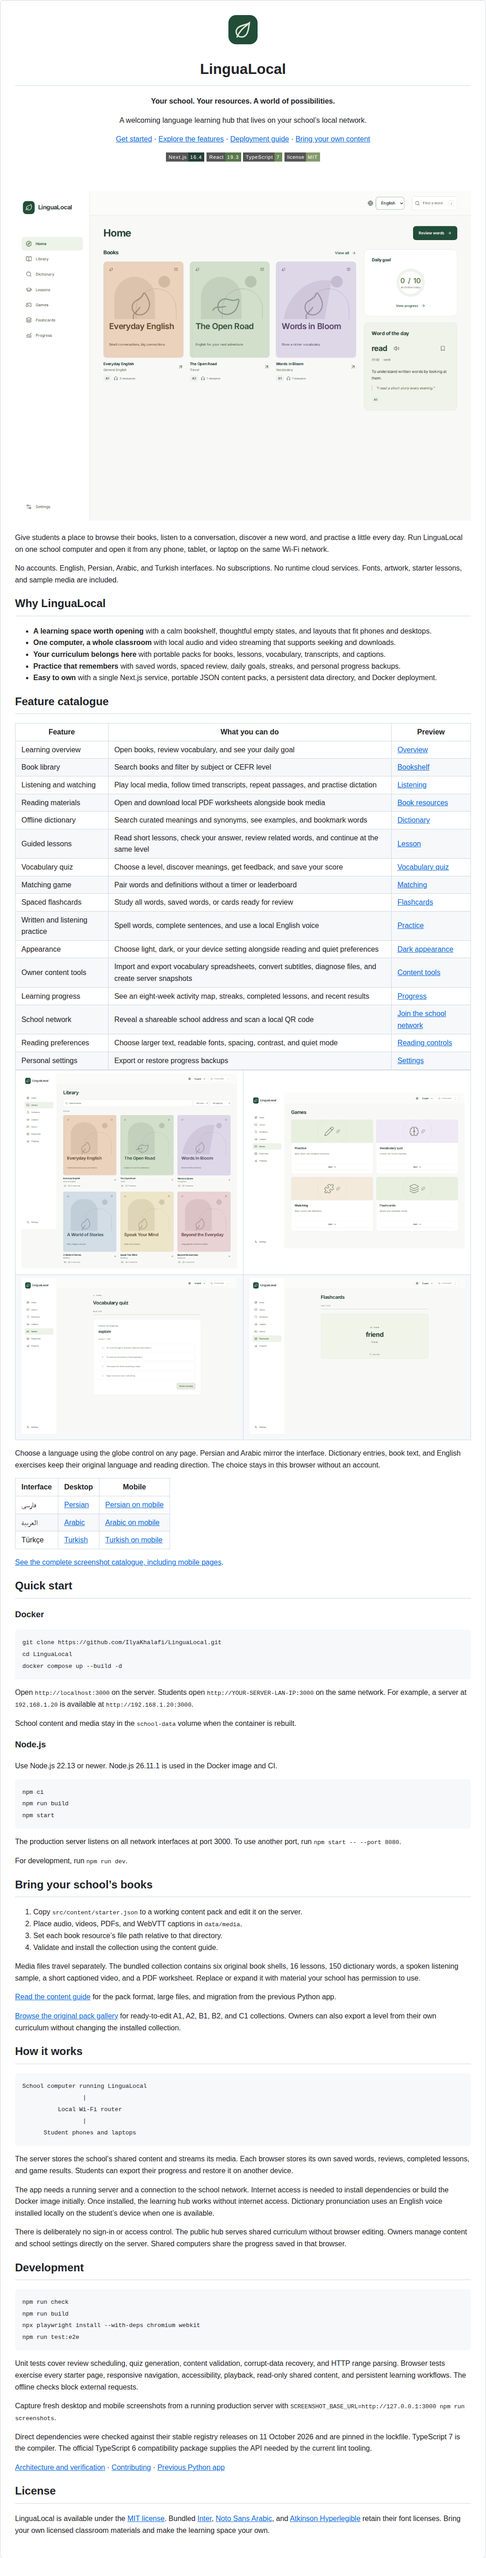
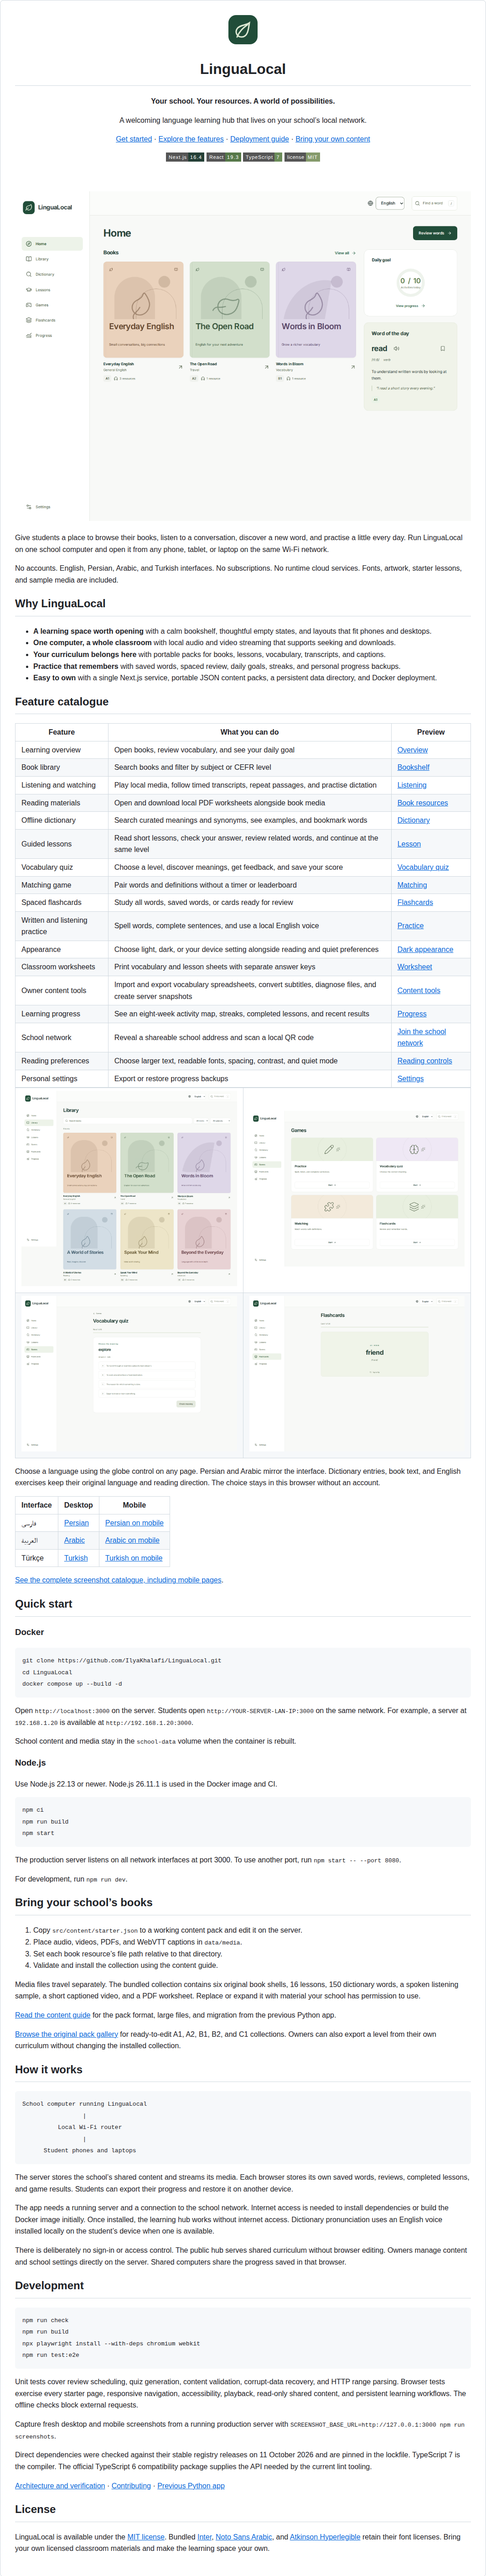
Generate printable worksheets and answer keys

diff --git a/src/lib/worksheets.ts b/src/lib/worksheets.ts
@@ -1,0 +1,121 @@
+import { distinctGameWords } from "./learning";
+import type { ContentPack, Word } from "./schema";
+
+function escape(text: string): string {
+  return text.replace(
+    /[&<>"']/g,
+    (character) =>
+      ({
+        "&": "&amp;",
+        "<": "&lt;",
+        ">": "&gt;",
+        '"': "&quot;",
+        "'": "&#39;",
+      })[character]!,
+  );
+}
+
+const styles = `
+*{box-sizing:border-box}body{margin:0;padding:32px 16px;background:#f5f7f3;color:#233c30;font:16px/1.6 system-ui,sans-serif}
+main{max-width:820px;margin:auto}h1,h2,h3{line-height:1.25}h1{font-size:28px;margin:0 0 12px}h2{font-size:21px}h3{font-size:17px}
+p{margin:12px 0}.sheet{background:white;border:1px solid #dfe5da;border-radius:16px;padding:40px;margin:24px 0;overflow-wrap:anywhere}
+.meta{color:#476a51;font-size:13px;font-weight:600;letter-spacing:.04em;margin:0 0 12px}.identity{display:flex;gap:40px;flex-wrap:wrap;margin:28px 0;font-size:14px}
+.bank{display:flex;gap:10px 18px;flex-wrap:wrap;background:#edf3e6;padding:16px 20px;border-radius:10px;list-style:none;margin:20px 0 28px}
+.questions{padding-inline-start:24px}.questions>li{padding:12px 0 18px;break-inside:avoid}.answer-line{display:block;border-bottom:1px solid #9da99b;width:70%;height:30px}
+.options{list-style-type:upper-alpha;margin:16px 0;padding-inline-start:28px}.options li{padding:5px 0}.reading{white-space:pre-wrap}.key,.exercise{break-inside:avoid}.key{padding:12px 0;border-bottom:1px solid #e4e8e1}
+a{color:#28563c;text-underline-offset:4px}nav{display:flex;gap:16px;flex-wrap:wrap}button{font:inherit;background:#214c39;color:white;border:0;border-radius:8px;padding:10px 18px;cursor:pointer}a:focus-visible,button:focus-visible{outline:3px solid #597c65;outline-offset:4px}
+@media(max-width:500px){body{padding:16px 12px}.sheet{padding:24px 20px}h1{font-size:24px}.identity{gap:16px}.answer-line{width:100%}}
+@page{size:A4;margin:18mm}@media print{body{padding:0;background:white;font-size:12pt}.sheet{padding:0;border:0;border-radius:0;margin:0;break-before:page}.sheet:first-of-type{break-before:auto}nav,.no-print{display:none}.bank{background:#f0f3ec;print-color-adjust:exact}h1,h2,h3{break-after:avoid}main{max-width:none}.key{border-color:#bbb}}
+`;
+
+function document(title: string, body: string, navigation = true): string {
+  const controls = navigation
+    ? '<nav class="no-print" aria-label="Worksheet navigation"><a href="index.html">All worksheets</a><button onclick="window.print()">Print</button></nav>'
+    : "";
+  return `<!doctype html><html lang="en"><head><meta charset="utf-8"><meta name="viewport" content="width=device-width,initial-scale=1"><title>${escape(title)}</title><style>${styles}</style></head><body><main>${controls}${body}</main></body></html>`;
+}
+
+function vocabularyGroups(words: Word[]): Word[][] {
+  const groups: Word[][] = [];
+  let group: Word[] = [];
+  let size = 0;
+  for (const word of words) {
+    const length = word.word.length + word.definition.length + 60;
+    if (group.length && (group.length === 8 || size + length > 1800)) {
+      groups.push(group);
+      group = [];
+      size = 0;
+    }
+    group.push(word);
+    size += length;
+  }
+  if (group.length) groups.push(group);
+  return groups;
+}
+
+export function createWorksheets(content: ContentPack, level?: Word["level"]) {
+  const selectedWords = content.words.filter(
+    (word) => !level || word.level === level,
+  );
+  const words = distinctGameWords(selectedWords);
+  const lessons = content.lessons.filter(
+    (lesson) => !level || lesson.level === level,
+  );
+  if (!words.length && !lessons.length)
+    throw new Error("No material matches this selection.");
+  const label = level ?? "All levels";
+  const groups = vocabularyGroups(words);
+  const skipped = selectedWords.length - words.length;
+  const files: { name: string; title: string; html: string }[] = [];
+  const key: string[] = [];
+  if (groups.length) {
+    const sheets = groups.map((group, index) => {
+      const bank = [...group].sort((left, right) =>
+        left.word.localeCompare(right.word, "en"),
+      );
+      key.push(
+        `<section class="key"><h2>Vocabulary ${index + 1}</h2><ol>${group.map((word) => `<li data-word-id="${escape(word.id)}">${escape(word.word)}</li>`).join("")}</ol></section>`,
+      );
+      return `<section class="sheet"><p class="meta">${escape(label)} · Worksheet ${index + 1}</p><h1>Find the right word</h1><p>Match each meaning to a word from the box.</p><div class="identity"><span>Name ____________________</span><span>Date ______________</span></div><ul class="bank" aria-label="Word bank">${bank.map((word) => `<li>${escape(word.word)}</li>`).join("")}</ul><ol class="questions">${group.map((word) => `<li data-word-id="${escape(word.id)}">${escape(word.definition)}<span class="answer-line" aria-hidden="true"></span></li>`).join("")}</ol></section>`;
+    });
+    files.push({
+      name: "vocabulary.html",
+      title: "Vocabulary worksheets",
+      html: document("Vocabulary worksheets", sheets.join("")),
+    });
+  }
+  if (lessons.length) {
+    const sheets = lessons.map((lesson) => {
+      key.push(
+        `<section class="key" data-lesson-id="${escape(lesson.id)}"><h2>${escape(lesson.title)}</h2><p><strong>${String.fromCharCode(65 + lesson.answer)} · ${escape(lesson.options[lesson.answer])}</strong></p><p>${escape(lesson.explanation)}</p></section>`,
+      );
+      return `<section class="sheet" data-lesson-id="${escape(lesson.id)}"><p class="meta">${escape(lesson.level)} · ${escape(lesson.category)}</p><h1>${escape(lesson.title)}</h1><div class="identity"><span>Name ____________________</span><span>Date ______________</span></div>${lesson.sections.map((section) => `<h2>${escape(section.title)}</h2><p class="reading">${escape(section.body)}</p>`).join("")}<div class="exercise"><h2>Check your understanding</h2><p>${escape(lesson.question)}</p><ol class="options">${lesson.options.map((option) => `<li>${escape(option)}</li>`).join("")}</ol><p>Your answer<span class="answer-line" aria-hidden="true"></span></p></div></section>`;
+    });
+    files.push({
+      name: "lessons.html",
+      title: "Lesson worksheets",
+      html: document("Lesson worksheets", sheets.join("")),
+    });
+  }
+  files.push({
+    name: "answers.html",
+    title: "Answer key",
+    html: document(
+      "Answer key",
+      `<section class="sheet"><p class="meta">${escape(label)}</p><h1>Answer key</h1>${key.join("")}</section>`,
+    ),
+  });
+  const links = files
+    .map((file) => `<li><a href="${file.name}">${file.title}</a></li>`)
+    .join("");
+  files.unshift({
+    name: "index.html",
+    title: "Classroom worksheets",
+    html: document(
+      "Classroom worksheets",
+      `<section class="sheet"><p class="meta">${escape(label)}</p><h1>Classroom worksheets</h1><p>Open a worksheet and print it from your browser.</p><ul>${links}</ul><p>${words.length} words · ${lessons.length} lessons</p>${skipped ? `<p>${skipped} repeated entries omitted from matching sheets.</p>` : ""}</section>`,
+      false,
+    ),
+  });
+  return { files, skipped };
+}

diff --git a/tests/unit/worksheets.test.ts b/tests/unit/worksheets.test.ts
@@ -1,0 +1,69 @@
+import test from "node:test";
+import assert from "node:assert/strict";
+import seed from "../../src/content/starter.json";
+import { packSchema } from "../../src/lib/schema";
+import { createWorksheets } from "../../src/lib/worksheets";
+
+test("printable student sheets and separate keys retain the selected curriculum", () => {
+  const content = packSchema.parse(seed);
+  const original = JSON.stringify(content);
+  const { files } = createWorksheets(content, "A1");
+  const vocabulary = files.find(
+    (file) => file.name === "vocabulary.html",
+  )!.html;
+  const lessons = files.find((file) => file.name === "lessons.html")!.html;
+  const key = files.find((file) => file.name === "answers.html")!.html;
+  const ids = Array.from(
+    vocabulary.matchAll(/data-word-id="([^"]+)"/g),
+    (match) => match[1],
+  );
+  assert.deepEqual(
+    ids,
+    content.words.filter((word) => word.level === "A1").map((word) => word.id),
+  );
+  for (const lesson of content.lessons) {
+    if (lesson.level === "A1") {
+      assert.ok(lessons.includes(`data-lesson-id="${lesson.id}"`));
+      assert.ok(!lessons.includes(lesson.explanation));
+      assert.ok(key.includes(lesson.explanation));
+      assert.ok(key.includes(lesson.options[lesson.answer]));
+    } else assert.ok(!lessons.includes(`data-lesson-id="${lesson.id}"`));
+  }
+  for (const file of files) {
+    assert.match(file.html, /<html lang="en">/);
+    assert.match(file.html, /@media print/);
+    assert.doesNotMatch(file.html, /<script|https?:\/\//);
+  }
+  assert.equal(JSON.stringify(content), original);
+});
+
+test("worksheets escape imported content and omit ambiguous vocabulary", () => {
+  const content = packSchema.parse(seed);
+  content.words = [
+    {
+      ...content.words[0],
+      definition: '<img src=x onerror="alert(1)"> & a meaning.',
+    },
+    { ...content.words[0], id: "same-headword" },
+    { ...content.words[1], word: "<script>hello</script>" },
+    { ...content.words[2], definition: content.words[1].definition },
+  ];
+  content.lessons = [];
+  const { files, skipped } = createWorksheets(content);
+  assert.equal(skipped, 2);
+  const vocabulary = files.find(
+    (file) => file.name === "vocabulary.html",
+  )!.html;
+  assert.match(
+    vocabulary,
+    /&lt;img src=x onerror=&quot;alert\(1\)&quot;&gt; &amp; a meaning/,
+  );
+  assert.match(vocabulary, /&lt;script&gt;hello&lt;\/script&gt;/);
+  assert.ok(!vocabulary.includes('data-word-id="same-headword"'));
+  assert.ok(!vocabulary.includes(`data-word-id="${content.words[3].id}"`));
+  assert.ok(!files.some((file) => file.name === "lessons.html"));
+  assert.throws(
+    () => createWorksheets({ ...content, words: [], lessons: [] }),
+    /No material matches/,
+  );
+});

diff --git a/scripts/create-worksheets.ts b/scripts/create-worksheets.ts
@@ -1,0 +1,41 @@
+import "./load-environment.mjs";
+import { mkdir, rm } from "node:fs/promises";
+import path from "node:path";
+import { z } from "zod";
+import { levels, packSchema } from "../src/lib/schema";
+import { readValidatedJson } from "../src/lib/json-file";
+import { writeFileAtomically } from "../src/lib/atomic-file";
+import { createWorksheets } from "../src/lib/worksheets";
+import { runCommand } from "../src/lib/cli";
+
+runCommand(async () => {
+  const [source, destination, selection] = process.argv.slice(2);
+  if (!source || !destination || process.argv.length > 5)
+    throw new Error(
+      "Usage is create-worksheets INPUT.json NEW-DIRECTORY [LEVEL]",
+    );
+  const level =
+    selection === undefined ? undefined : z.enum(levels).parse(selection);
+  const { files, skipped } = createWorksheets(
+    await readValidatedJson(source, packSchema),
+    level,
+  );
+  await mkdir(path.dirname(path.resolve(destination)), { recursive: true });
+  await mkdir(destination);
+  try {
+    for (const file of files)
+      await writeFileAtomically(path.join(destination, file.name), file.html, {
+        overwrite: false,
+      });
+  } catch (error) {
+    await rm(destination, { recursive: true, force: true });
+    throw error;
+  }
+  console.log(
+    `Created ${files.length} printable files in ${destination}. Open index.html to choose a worksheet.`,
+  );
+  if (skipped)
+    console.log(
+      `Skipped ${skipped} entries with repeated headwords or meanings.`,
+    );
+});

diff --git a/scripts/worksheet-previews.ts b/scripts/worksheet-previews.ts
@@ -1,0 +1,47 @@
+import { chromium, type Browser } from "@playwright/test";
+import { mkdir } from "node:fs/promises";
+import path from "node:path";
+import { packSchema } from "../src/lib/schema";
+import { createWorksheets } from "../src/lib/worksheets";
+import seed from "../src/content/starter.json";
+import { runCommand } from "../src/lib/cli";
+
+export async function captureWorksheetPreviews(browser: Browser) {
+  const { files } = createWorksheets(packSchema.parse(seed), "A1");
+  const context = await browser.newContext();
+  try {
+    const page = await context.newPage();
+    await mkdir("docs/screenshots", { recursive: true });
+    for (const file of files) {
+      await page.setContent(file.html);
+      for (const mobile of [false, true]) {
+        await page.setViewportSize(
+          mobile ? { width: 390, height: 844 } : { width: 1440, height: 1040 },
+        );
+        await page
+          .locator(".sheet")
+          .first()
+          .screenshot({
+            path: path.join(
+              "docs/screenshots",
+              `worksheet-${file.name.replace(".html", "")}${mobile ? "-mobile" : ""}.png`,
+            ),
+            animations: "disabled",
+          });
+      }
+    }
+  } finally {
+    await context.close();
+  }
+}
+
+if (require.main === module) {
+  runCommand(async () => {
+    const browser = await chromium.launch();
+    try {
+      await captureWorksheetPreviews(browser);
+    } finally {
+      await browser.close();
+    }
+  });
+}

diff --git a/scripts/screenshots.ts b/scripts/screenshots.ts
@@ -5,6 +5,7 @@ import { locales, translate, type Locale } from "../src/lib/locale";
 import { pageCatalogue } from "./page-catalogue";
 import seed from "../src/content/starter.json";
 import { parseSubtitles, plainSubtitle } from "../src/lib/subtitles";
+import { captureWorksheetPreviews } from "./worksheet-previews";
 
 const base = process.env.SCREENSHOT_BASE_URL || "http://127.0.0.1:3100";
 const folder = "docs/screenshots";
@@ -282,6 +283,7 @@ async function main() {
   const browser = await chromium.launch();
   const errors: string[] = [];
   try {
+    await captureWorksheetPreviews(browser);
     for (const locale of locales) {
       const context = await browser.newContext({
         viewport: { width: 1440, height: 1040 },

diff --git a/README.md b/README.md
@@ -46,6 +46,7 @@ No accounts. English, Persian, Arabic, and Turkish interfaces. No subscriptions.
 | Spaced flashcards              | Study all words, saved words, or cards ready for review                                                   | [Flashcards](docs/screenshots/flashcards-playing.png)        |
 | Written and listening practice | Spell words, complete sentences, and use a local English voice                                            | [Practice](docs/screenshots/practice-playing.png)            |
 | Appearance                     | Choose light, dark, or your device setting alongside reading and quiet preferences                        | [Dark appearance](docs/screenshots/dark-overview.png)        |
+| Classroom worksheets           | Print vocabulary and lesson sheets with separate answer keys                                              | [Worksheet](docs/screenshots/worksheet-vocabulary.png)       |
 | Owner content tools            | Import and export vocabulary spreadsheets, convert subtitles, diagnose files, and create server snapshots | [Content tools](docs/CONTENT.md)                             |
 | Learning progress              | See an eight-week activity map, streaks, completed lessons, and recent results                            | [Progress](docs/screenshots/progress.png)                    |
 | School network                 | Reveal a shareable school address and scan a local QR code                                                | [Join the school network](docs/screenshots/join-network.png) |

diff --git a/docs/CONTENT.md b/docs/CONTENT.md
@@ -62,6 +62,16 @@ Import the CSV with the original collection as the base to retain books, lessons
 
 In Docker, use `node scripts/export-vocabulary.mjs /tmp/collection.json /tmp/new-words.csv B1`.
 
+### Creating printable classroom materials
+
+Run `npm run worksheets:create -- collection.json new-worksheets A1` to generate vocabulary and lesson worksheets for a level. Omit the level to include the full collection. Open `new-worksheets/index.html` to choose a file and print it, or save it as a PDF from the browser. Answer keys are kept in a separate file.
+
+Vocabulary worksheets group up to eight words and adjust for longer definitions. Matching sheets use distinct headwords and meanings. The command reports repeated entries it skips. Lesson sheets preserve reading sections and offer the original practice question. Questions and their options stay together when they fit on a page. Long text continues onto later pages.
+
+The destination must be a new directory. Existing directories and the source collection stay intact. The output uses bundled CSS and system fonts and can be opened without a server or network connection. Printed classroom labels are in English. Browser interface language preferences do not change these files.
+
+In Docker, use `node scripts/create-worksheets.mjs /tmp/collection.json /tmp/new-worksheets A1`, then copy the directory out of the container.
+
 ### Book resources
 
 ```json

diff --git a/docs/FEATURES.md b/docs/FEATURES.md
@@ -119,3 +119,11 @@ Check an answer, mark the lesson complete, and review its own words without anot
 ![Lesson review](screenshots/lesson-review.png)
 
 [Completed lesson](screenshots/lesson-completed.png) · [Revealed meaning](screenshots/lesson-review-flipped.png) · [Review result](screenshots/lesson-review-complete.png)
+
+### Printed classroom materials
+
+The owner command creates vocabulary and lesson worksheets with separate answer keys. Open the generated files locally and print them or save them as PDF. Student pages do not gain authoring controls.
+
+![Vocabulary worksheet](screenshots/worksheet-vocabulary.png)
+
+[Lesson worksheet](screenshots/worksheet-lessons.png) · [Answer key](screenshots/worksheet-answers.png) · [File chooser](screenshots/worksheet-index.png) · [Mobile worksheet](screenshots/worksheet-vocabulary-mobile.png)

diff --git a/docs/ROADMAP.md b/docs/ROADMAP.md
@@ -17,7 +17,7 @@ The next release expands student practice, classroom materials, and local deploy
 ## Classroom materials
 
 - [ ] Assignment links with local checklists and optional due dates
-- [ ] Printable vocabulary and lesson worksheets with separate answer keys
+- [x] Printable vocabulary and lesson worksheets with separate answer keys
 - [ ] Self-reported progress summaries and classroom roll-ups
 - [x] Vocabulary spreadsheet import and deck export
 - [x] Subtitle conversion and timing diagnostics
